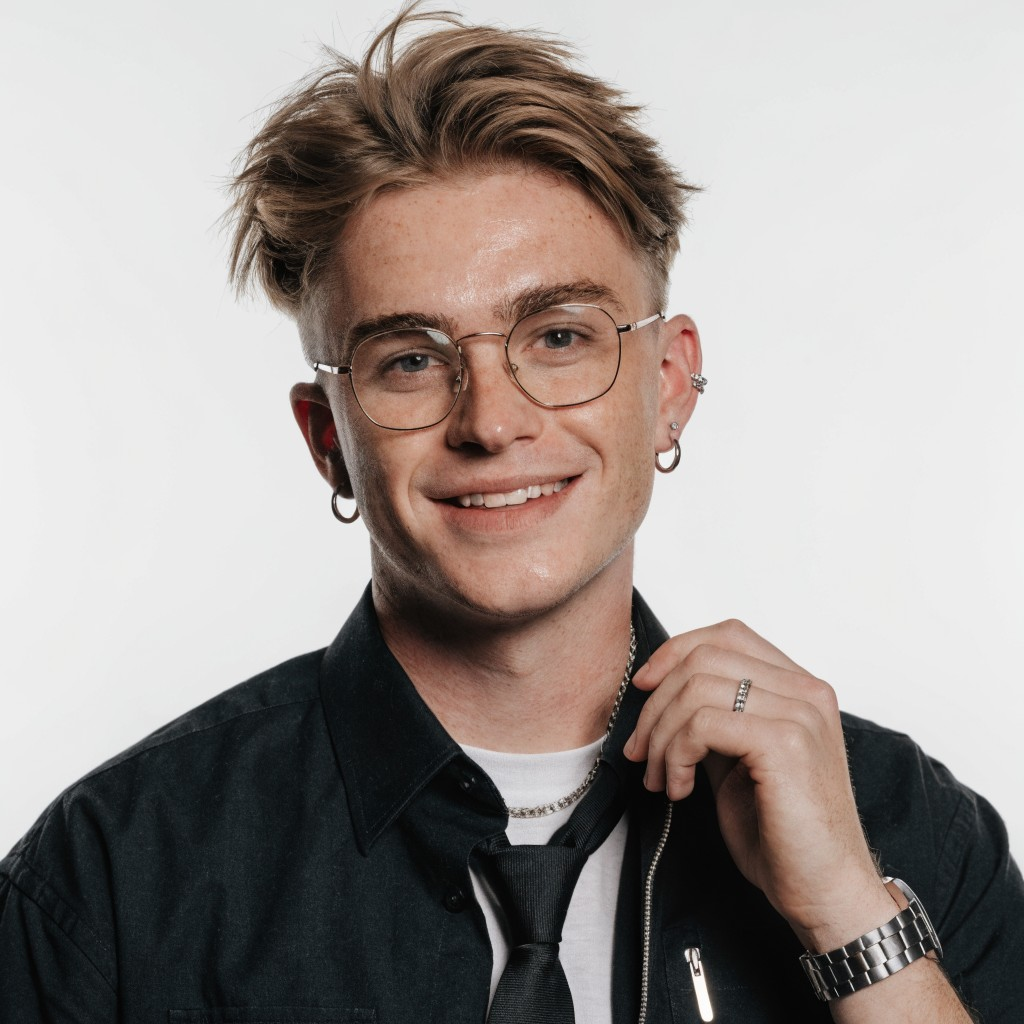
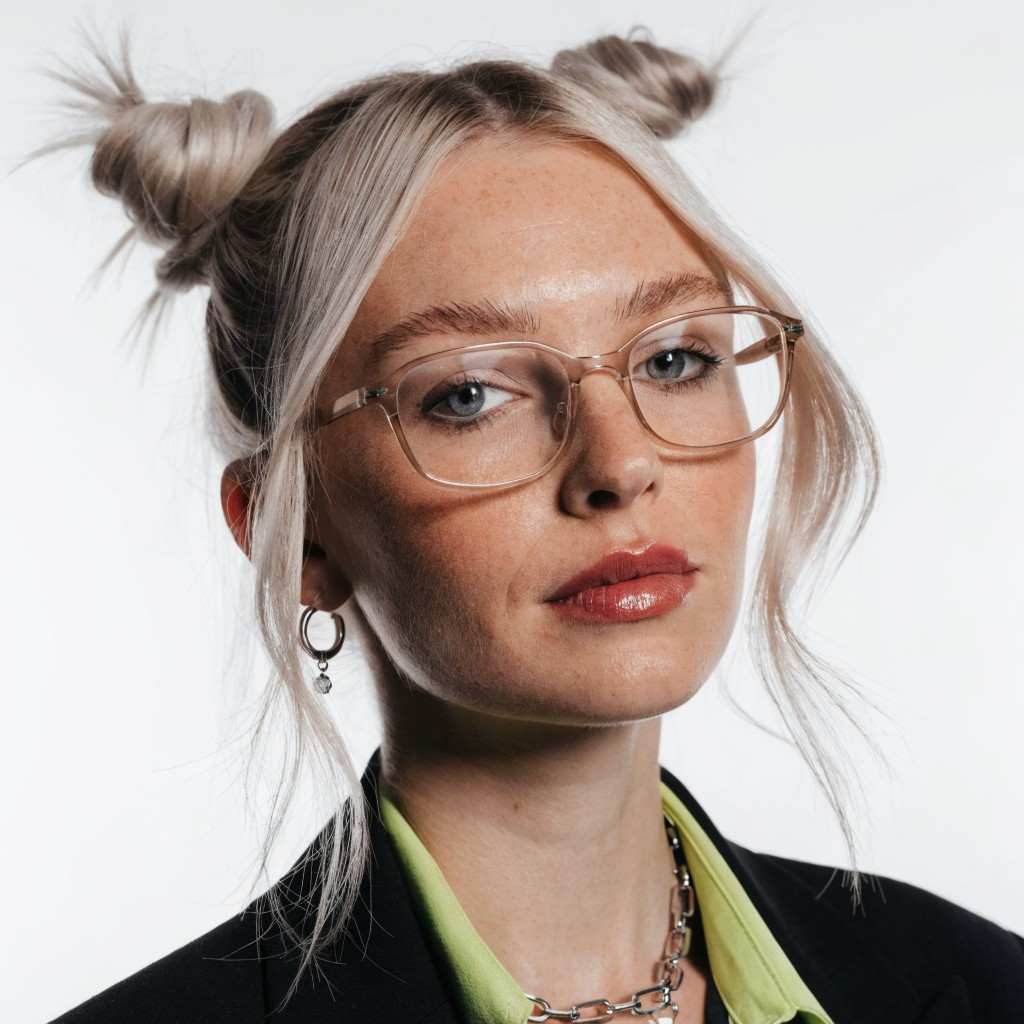
fix(case): аватар Анны В. в блоке кадрового резерва
Заменили фото на женский портрет, соответствующий профилю R&D-специалиста.

diff --git a/page101071766.html b/page101071766.html
@@ -855,7 +855,7 @@
                 data-verdict-title="Анна В.: сбалансированный кандидат"
                 data-verdict-text="Целей чуть меньше, чем у Игоря К., но 360° высокая, вклад в проекты значимый, динамика растёт. На сведённых данных это самый устойчивый кандидат в резерв — именно такую картину даёт объединение OKR, 360° и проектов вместо одной метрики.">
           <span class="candidate__head">
-            <span class="candidate__avatar"><img src="images/avatar-pr-candidate-b.png" alt="" width="44" height="44" loading="lazy"></span>
+            <span class="candidate__avatar"><img src="images/avatar-pr-candidate-b.png" alt="Анна В." width="44" height="44" loading="lazy"></span>
             <span><b>Анна В.</b><span>R&amp;D · ведущий специалист</span></span>
           </span>
           <span class="candidate__metrics">
